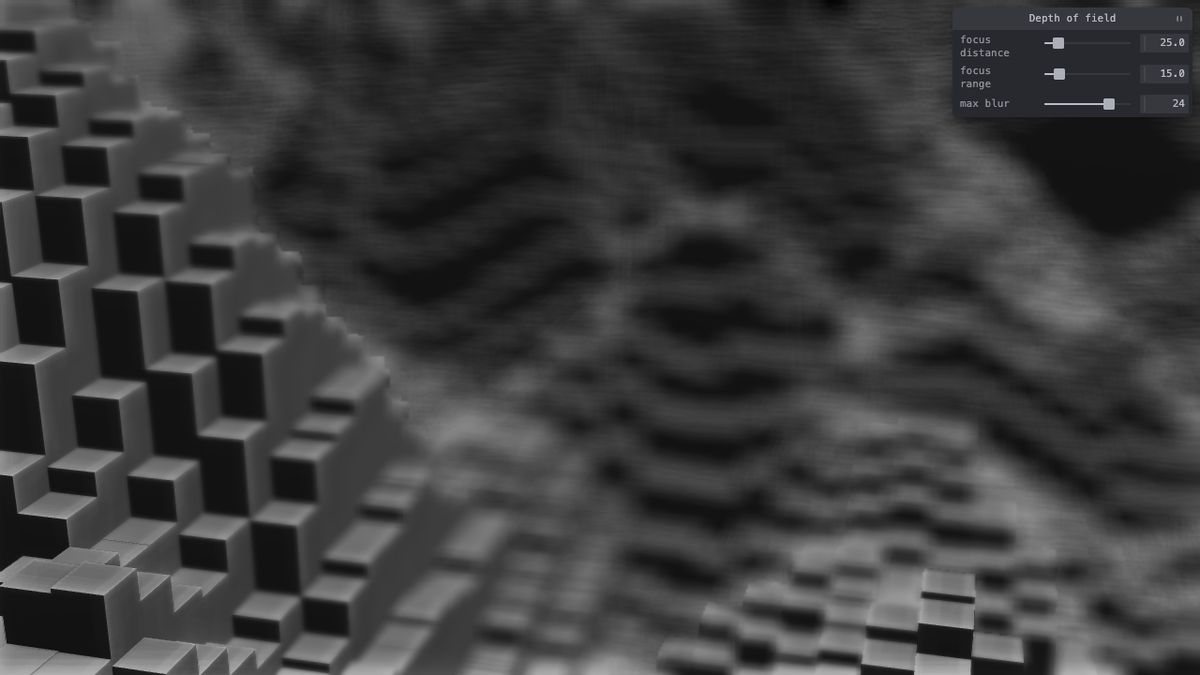
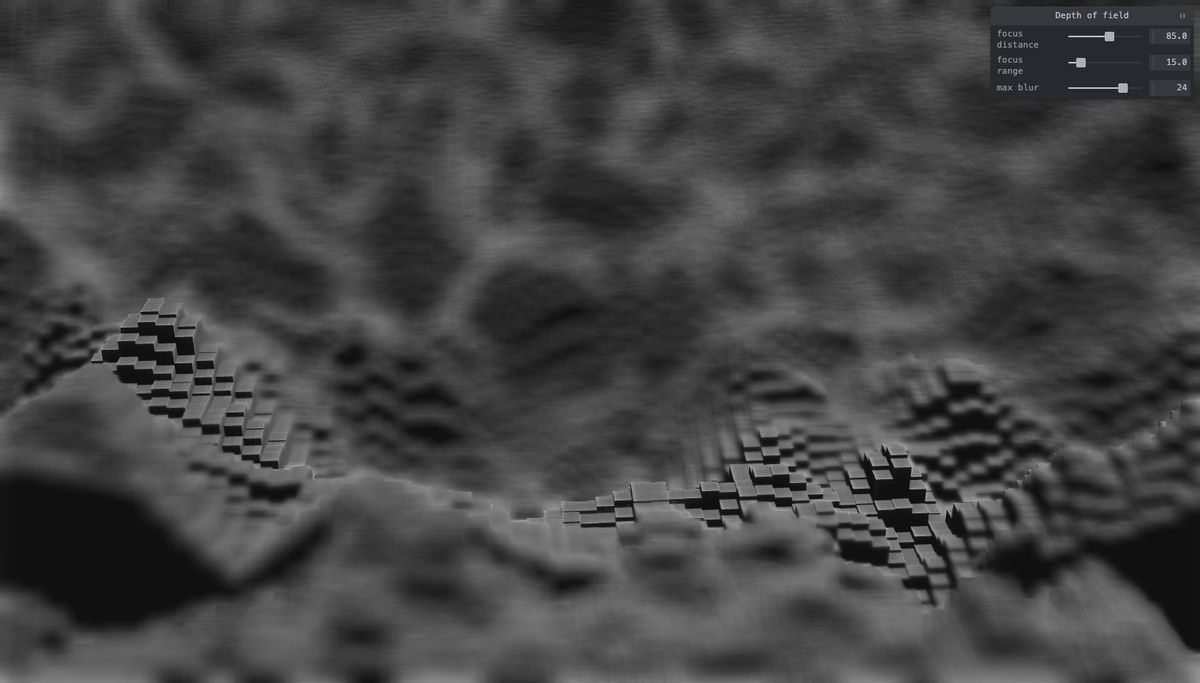
feat(examples): DoF terrain opens on a low tilt-shift view
Focus distance 85 (range 15, max blur 24) and the orbit starting at
radius 130 (160 on narrow screens), azimuth -0.01 turns and elevation
0.075 turns, so the focus band lies across the lower middle with the
foreground and background blurred. Drag and wheel work as before.

diff --git a/examples/index_dof_terrain.html b/examples/index_dof_terrain.html
@@ -142,8 +142,15 @@
     // ── Camera & controls ─────────────────────────────────────────────────────
     const scene  = new Scene();
     const camera = new Camera(26, 0.1, 1000, window.innerWidth / window.innerHeight);
-    const orbitRadius = window.innerWidth < 768 ? 120 : 90;
+    // Opening view: a low camera skimming the columns, with the focus band (85 units away) across the lower middle
+    // and the foreground and background blurred out. Drag to orbit and scroll to zoom from there.
+    const orbitRadius = window.innerWidth < 768 ? 160 : 130;
     const cameraControls = new CameraControls(camera, scene.position, null, orbitRadius);
+    cameraControls.azimuth = -0.01 * Math.PI * 2;
+    // Elevation has no setter: set the orbit's vertical angle (in turns) and its eased value together, as azimuth does.
+    const ELEVATION_TURNS = 0.075;
+    cameraControls.currentAngles.y = cameraControls.prevAngles.y = ELEVATION_TURNS;
+    cameraControls.finalRadians.y = ELEVATION_TURNS * Math.PI * 2;
 
     // ── Material (no texture — Lambert only) ──────────────────────────────────
     const material = new Material(lambertShader, { bindings: [] });
@@ -187,7 +194,7 @@
       strength: 0.5
     });
     const dofEffect = new DepthOfFieldEffect({
-      focusDistance: 25,
+      focusDistance: 85,
       focusRange: 15,
       maxBlur: 24
     });
